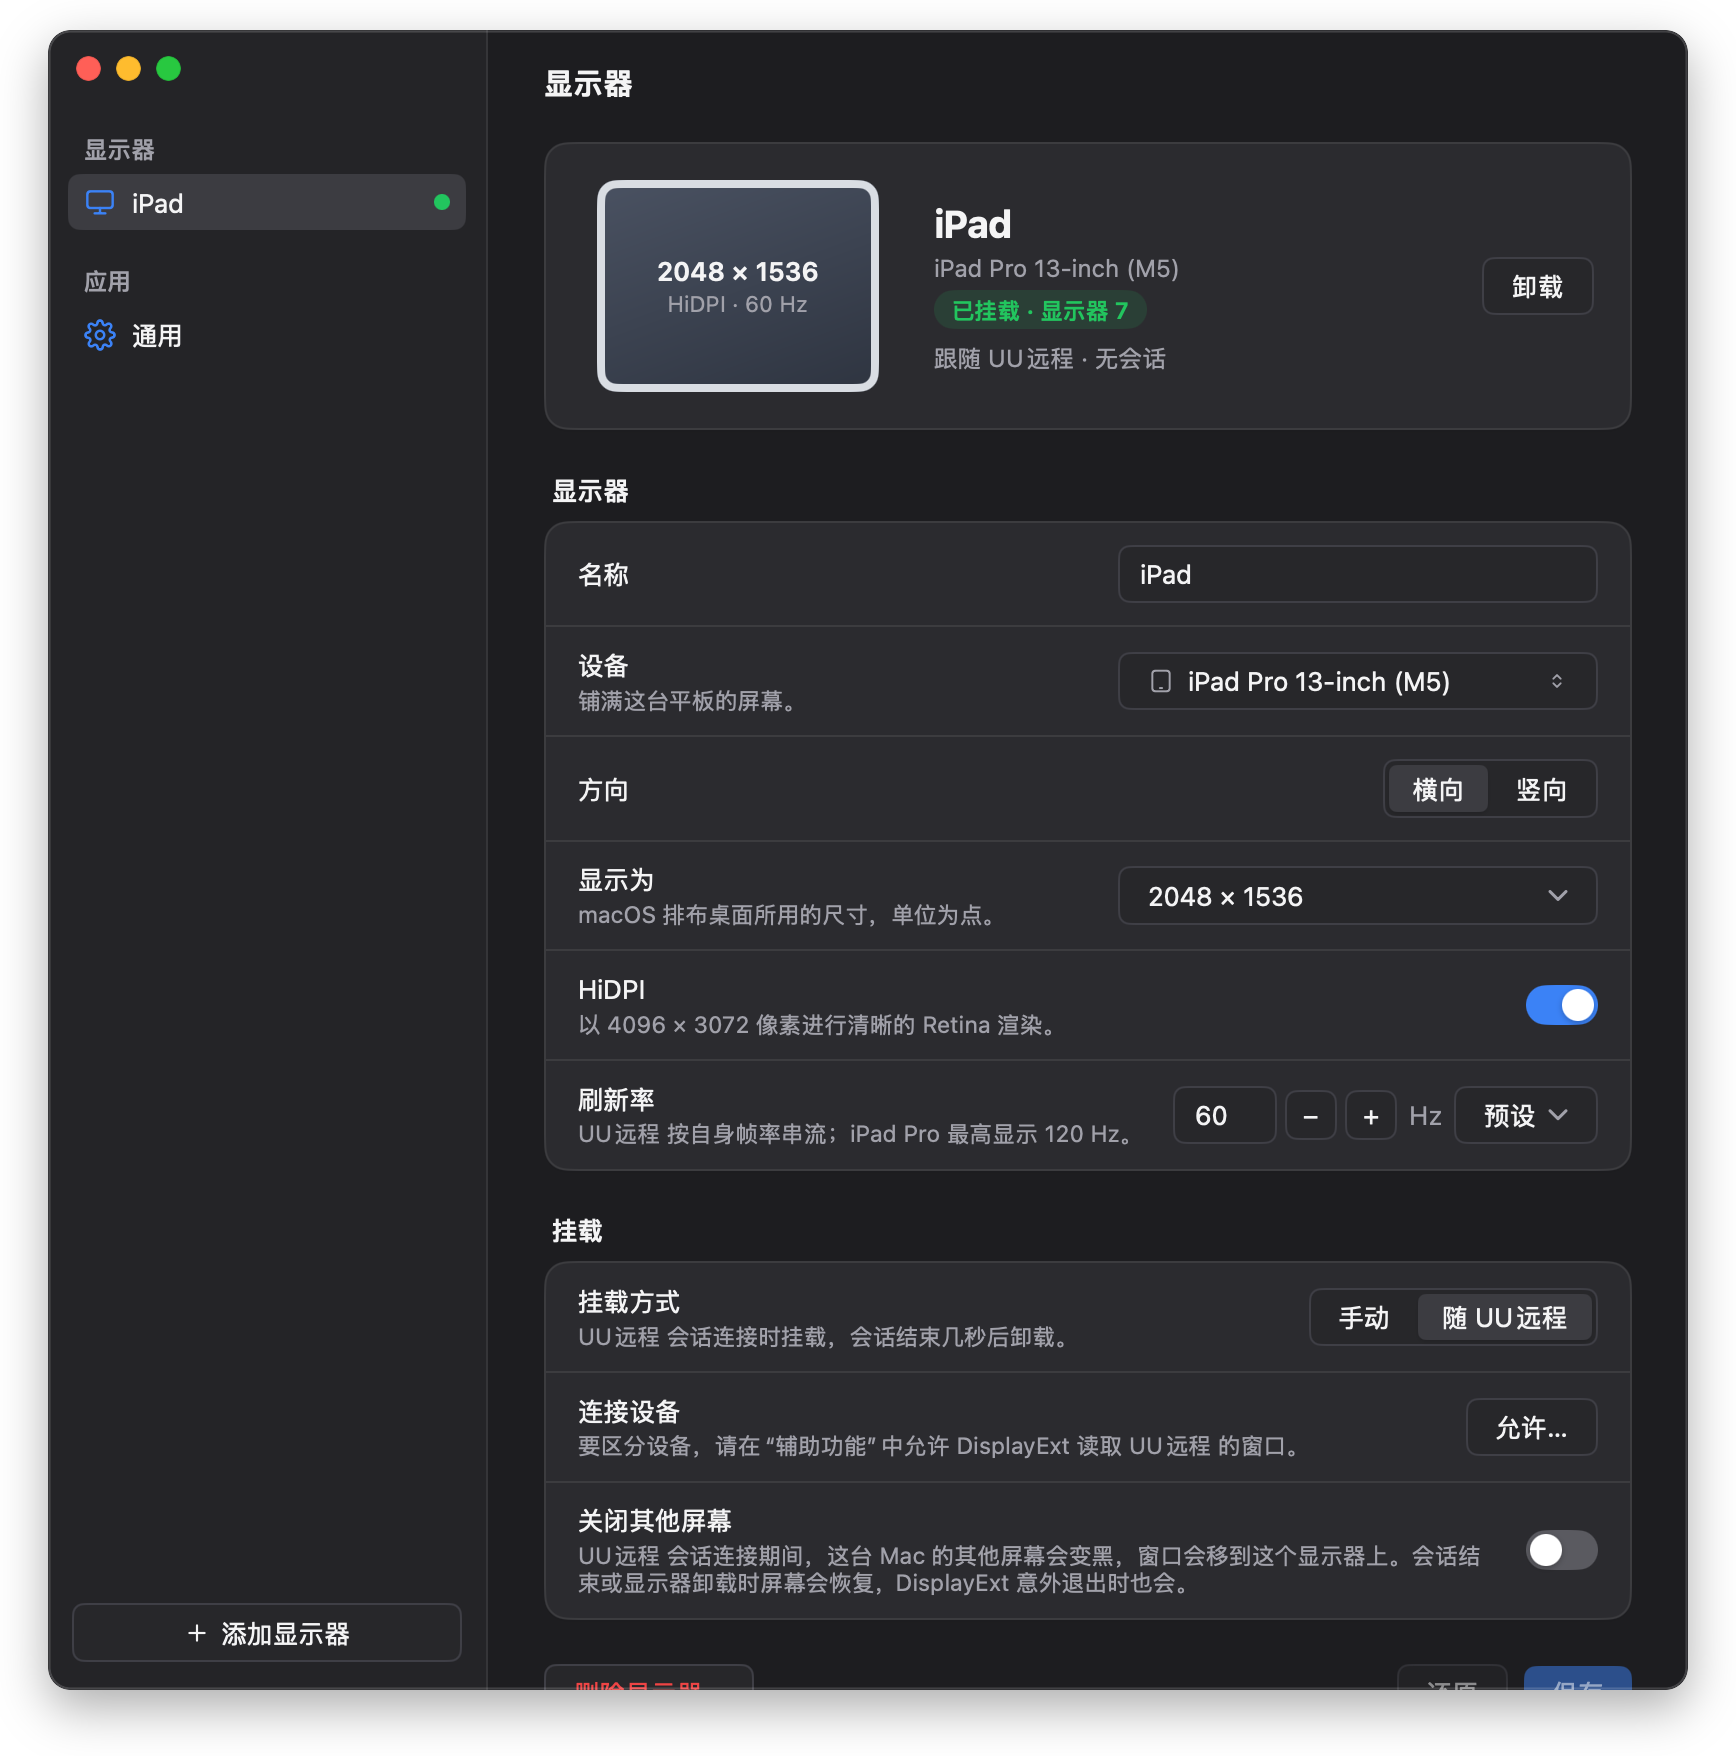
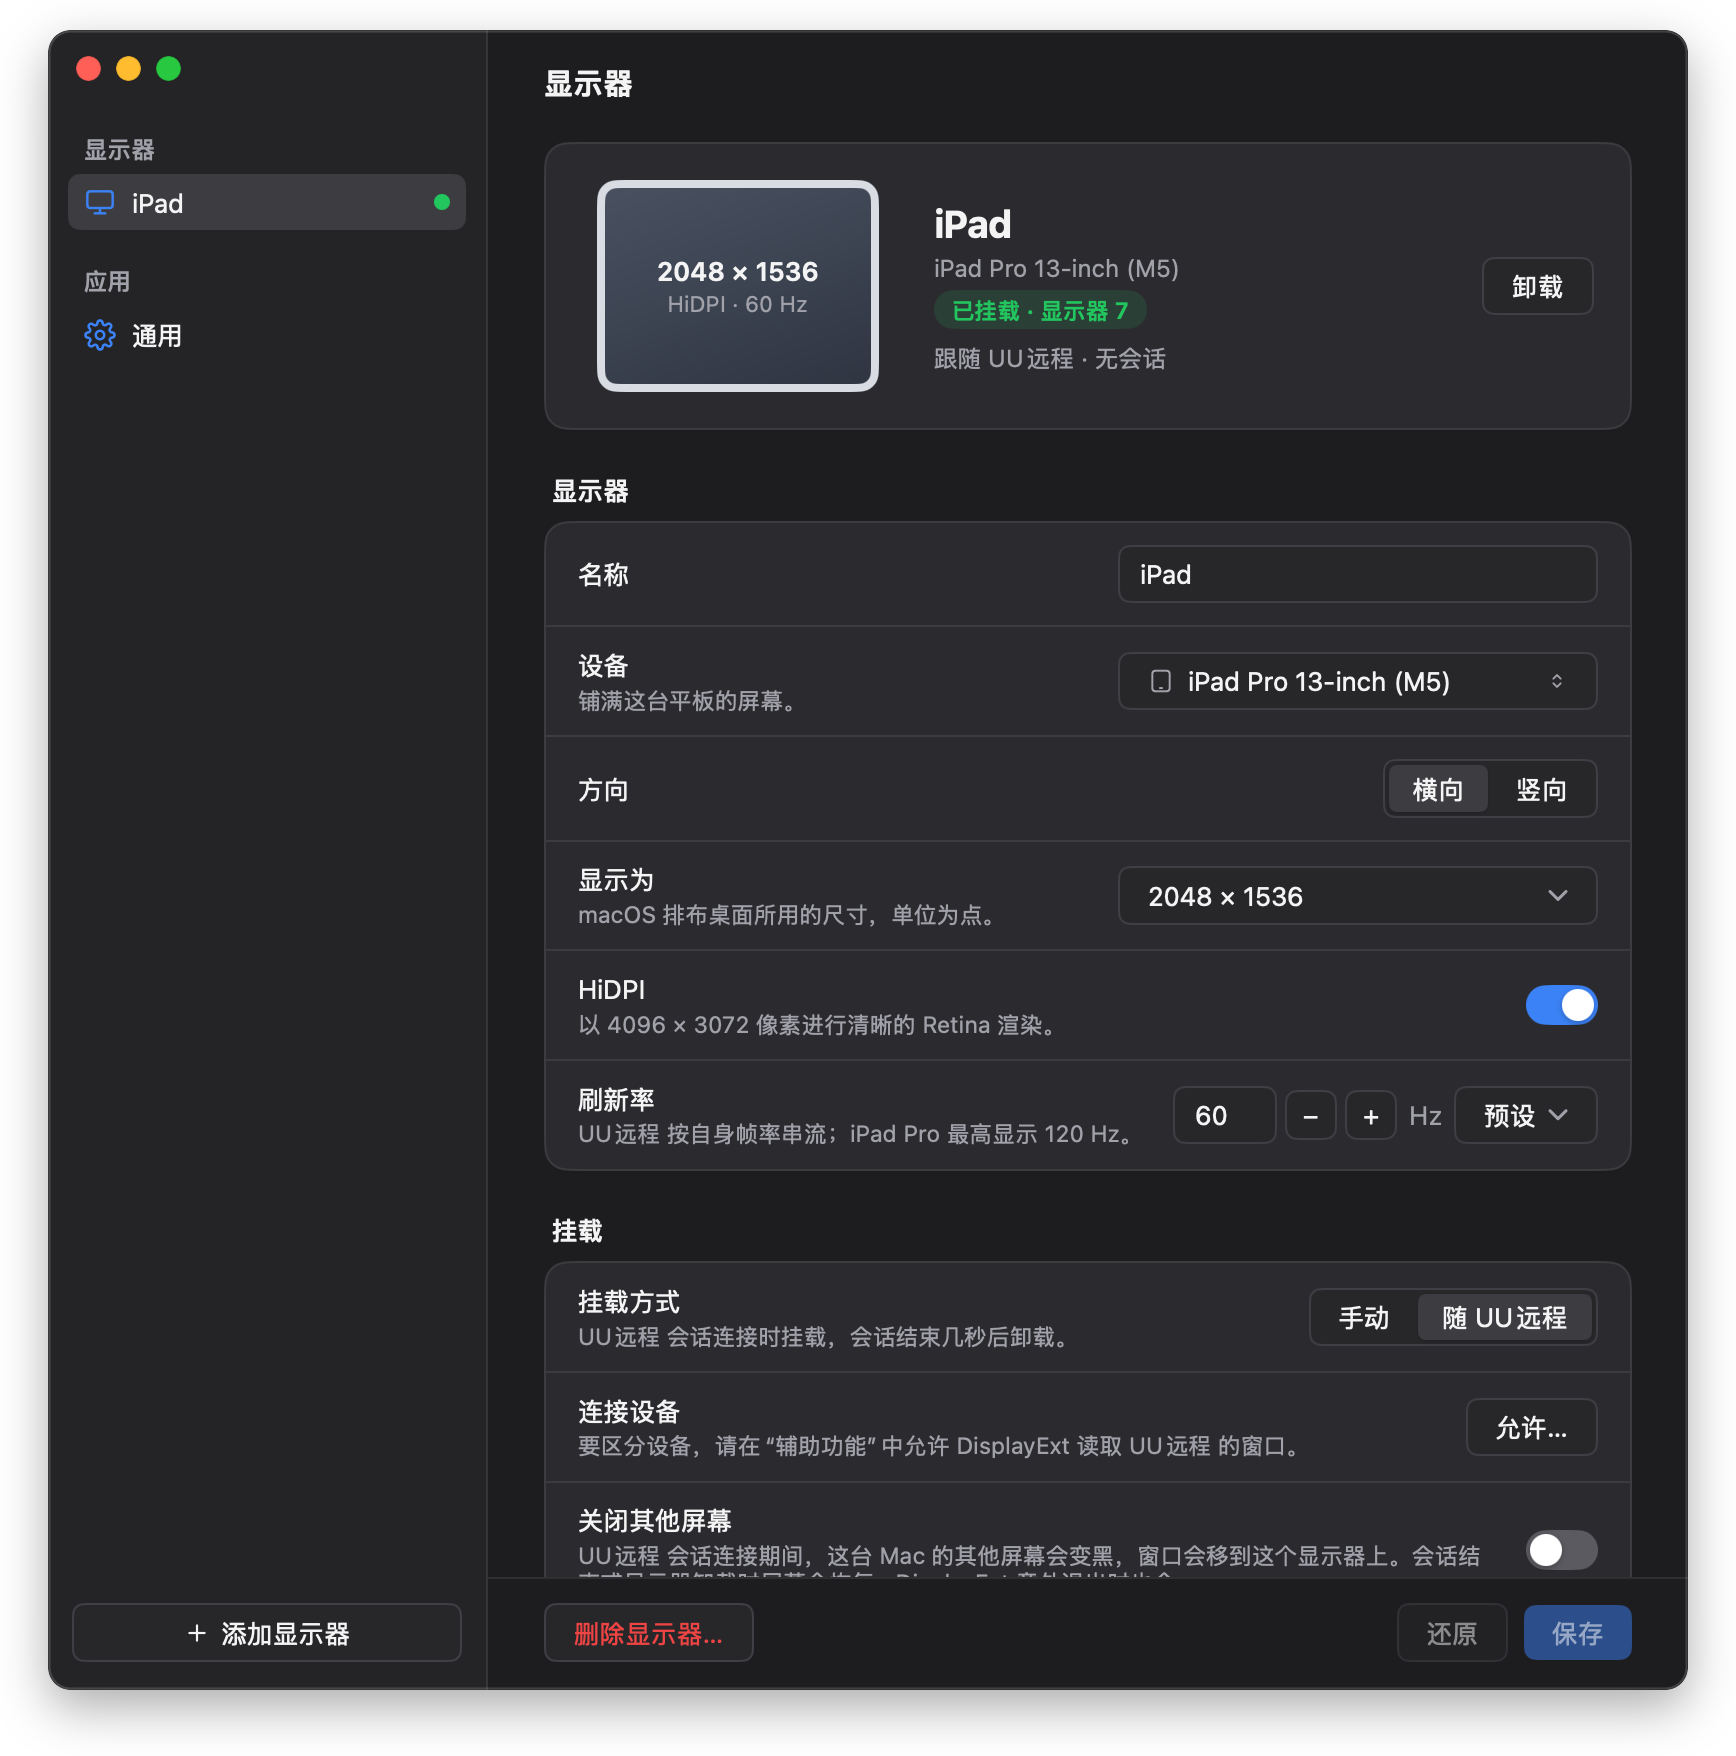
Keep Save in view, and say when there are unsaved changes
A change under Connect from was never saved because Save sat below the
fold, so the iPhone display kept mounting for any device, including an
iPad. Delete, Revert and Save now sit in a footer pinned to the bottom of
the window, with "Unsaved changes" beside them while there are any.

Changed region(s): [[0.3111, 0.8918, 0.6843, 0.9533], [0.871, 0.8918, 0.9643, 0.9841], [0.8088, 0.9226, 0.8399, 0.9533]]

diff --git a/internal/app/settings.go b/internal/app/settings.go
@@ -436,6 +436,9 @@ func (s *Settings) View(c *ui.Context) {
 					}
 				})
 			})
+			if !s.general && s.sel != "" {
+				s.footer(c, p)
+			}
 		})
 	})
 	if ui.AlertDialog(c, &s.confirmDelete, locales.DeleteTitle(s.saved.Name), locales.DeleteMessage(),
@@ -527,7 +530,6 @@ func (s *Settings) emptyPage(c *ui.Context, p palette) {
 func (s *Settings) displayPage(c *ui.Context, p palette) {
 	t := c.Theme()
 	d := s.compose()
-	problem := problemText(d)
 
 	s.hero(c, p, d)
 
@@ -595,19 +597,32 @@ func (s *Settings) displayPage(c *ui.Context, p palette) {
 		})
 	})
 
-	if problem != "" {
-		ui.Text(c, problem).TextColor(t.Danger)
-	} else if s.saveErr != "" {
-		ui.Text(c, s.saveErr).TextColor(t.Danger)
-	}
-	ui.Row(c).Gap(8).AlignItems(ui.Center).Children(func() {
-		ui.Button(c, locales.ButtonDelete()).TextColor(t.Danger).OnClick(func() { s.confirmDelete = true })
-		ui.Spacer(c)
-		if s.dirty() && s.b.Status(s.sel).Mounted && s.needsRemount() {
-			ui.Text(c, locales.NoteRemount()).FontSize(11.5).TextColor(t.TextMuted)
-		}
-		ui.Button(c, locales.ButtonRevert()).Disabled(!s.dirty()).OnClick(func() { s.load(s.saved) })
-		ui.PrimaryButton(c, locales.ButtonSave()).Disabled(!s.dirty() || problem != "").OnClick(s.save)
+}
+
+func (s *Settings) footer(c *ui.Context, p palette) {
+	t := c.Theme()
+	problem := problemText(s.compose())
+	dirty := s.dirty()
+	ui.Column(c).Padding(12, 28, 14, 28).BorderWidth(1, 0, 0, 0).BorderColor(p.hairline).Background(p.page).Children(func() {
+		ui.Column(c).MaxWidth(640).Gap(6).Children(func() {
+			if problem != "" {
+				ui.Text(c, problem).TextColor(t.Danger)
+			} else if s.saveErr != "" {
+				ui.Text(c, s.saveErr).TextColor(t.Danger)
+			}
+			ui.Row(c).Gap(8).AlignItems(ui.Center).Children(func() {
+				ui.Button(c, locales.ButtonDelete()).TextColor(t.Danger).OnClick(func() { s.confirmDelete = true })
+				ui.Spacer(c)
+				switch {
+				case dirty && s.b.Status(s.sel).Mounted && s.needsRemount():
+					ui.Text(c, locales.NoteRemount()).FontSize(11.5).TextColor(t.TextMuted)
+				case dirty:
+					ui.Text(c, locales.NoteUnsaved()).FontSize(11.5).TextColor(t.TextMuted)
+				}
+				ui.Button(c, locales.ButtonRevert()).Disabled(!dirty).OnClick(func() { s.load(s.saved) })
+				ui.PrimaryButton(c, locales.ButtonSave()).Disabled(!dirty || problem != "").OnClick(s.save)
+			})
+		})
 	})
 }
 

diff --git a/locales/catalog_gen.go b/locales/catalog_gen.go
@@ -816,6 +816,16 @@ func (msgs Messages) NoteRemount() string {
 	return Catalog.Format(msgs.locale, "noteRemount", nil)
 }
 
+// NoteUnsaved says "Unsaved changes"
+// in the language the app shows.
+func NoteUnsaved() string { return In(i18n.Locale()).NoteUnsaved() }
+
+// NoteUnsaved says "Unsaved changes"
+// in the language of msgs.
+func (msgs Messages) NoteUnsaved() string {
+	return Catalog.Format(msgs.locale, "noteUnsaved", nil)
+}
+
 // ButtonRevert says "Revert"
 // in the language the app shows.
 func ButtonRevert() string { return In(i18n.Locale()).ButtonRevert() }

diff --git a/internal/app/settings_test.go b/internal/app/settings_test.go
@@ -613,3 +613,17 @@ func TestConnectFromSaysWhenUUWindowIsClosed(t *testing.T) {
 		t.Errorf("missing %q: %q", want, tt.Texts())
 	}
 }
+
+func TestUnsavedChangesShowInTheFooter(t *testing.T) {
+	f := newFake()
+	s := NewSettings(f)
+	tt := newTester(s)
+	if tt.HasText("Unsaved changes") {
+		t.Error("a clean display says it has unsaved changes")
+	}
+	s.hz = 120
+	tt.Frame()
+	if !tt.HasText("Unsaved changes") {
+		t.Errorf("no unsaved-changes note: %q", tt.Texts())
+	}
+}
